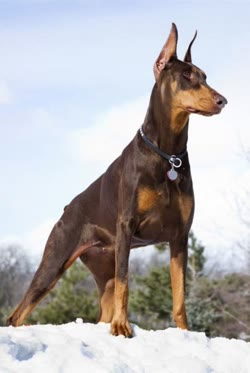
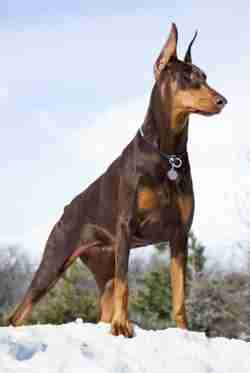
Super compressed images

diff --git a/src/components/Navbar.js b/src/components/Navbar.js
@@ -1,5 +1,5 @@
 import { useState } from 'react';
-import Logo from "./images/logo check.png"
+import Logo from "./images/logo check.jpg"
 function Navbar(){
     let [toggle, setToggle] = useState(false)
   function navBar() {

diff --git a/src/components/News.js b/src/components/News.js
@@ -1,4 +1,4 @@
-import image50 from './images/how to train your pet.jpg';
+import image50 from './images/how to train your pet.jpg'
 import image40 from './images/dogs.jpg'
 
 
